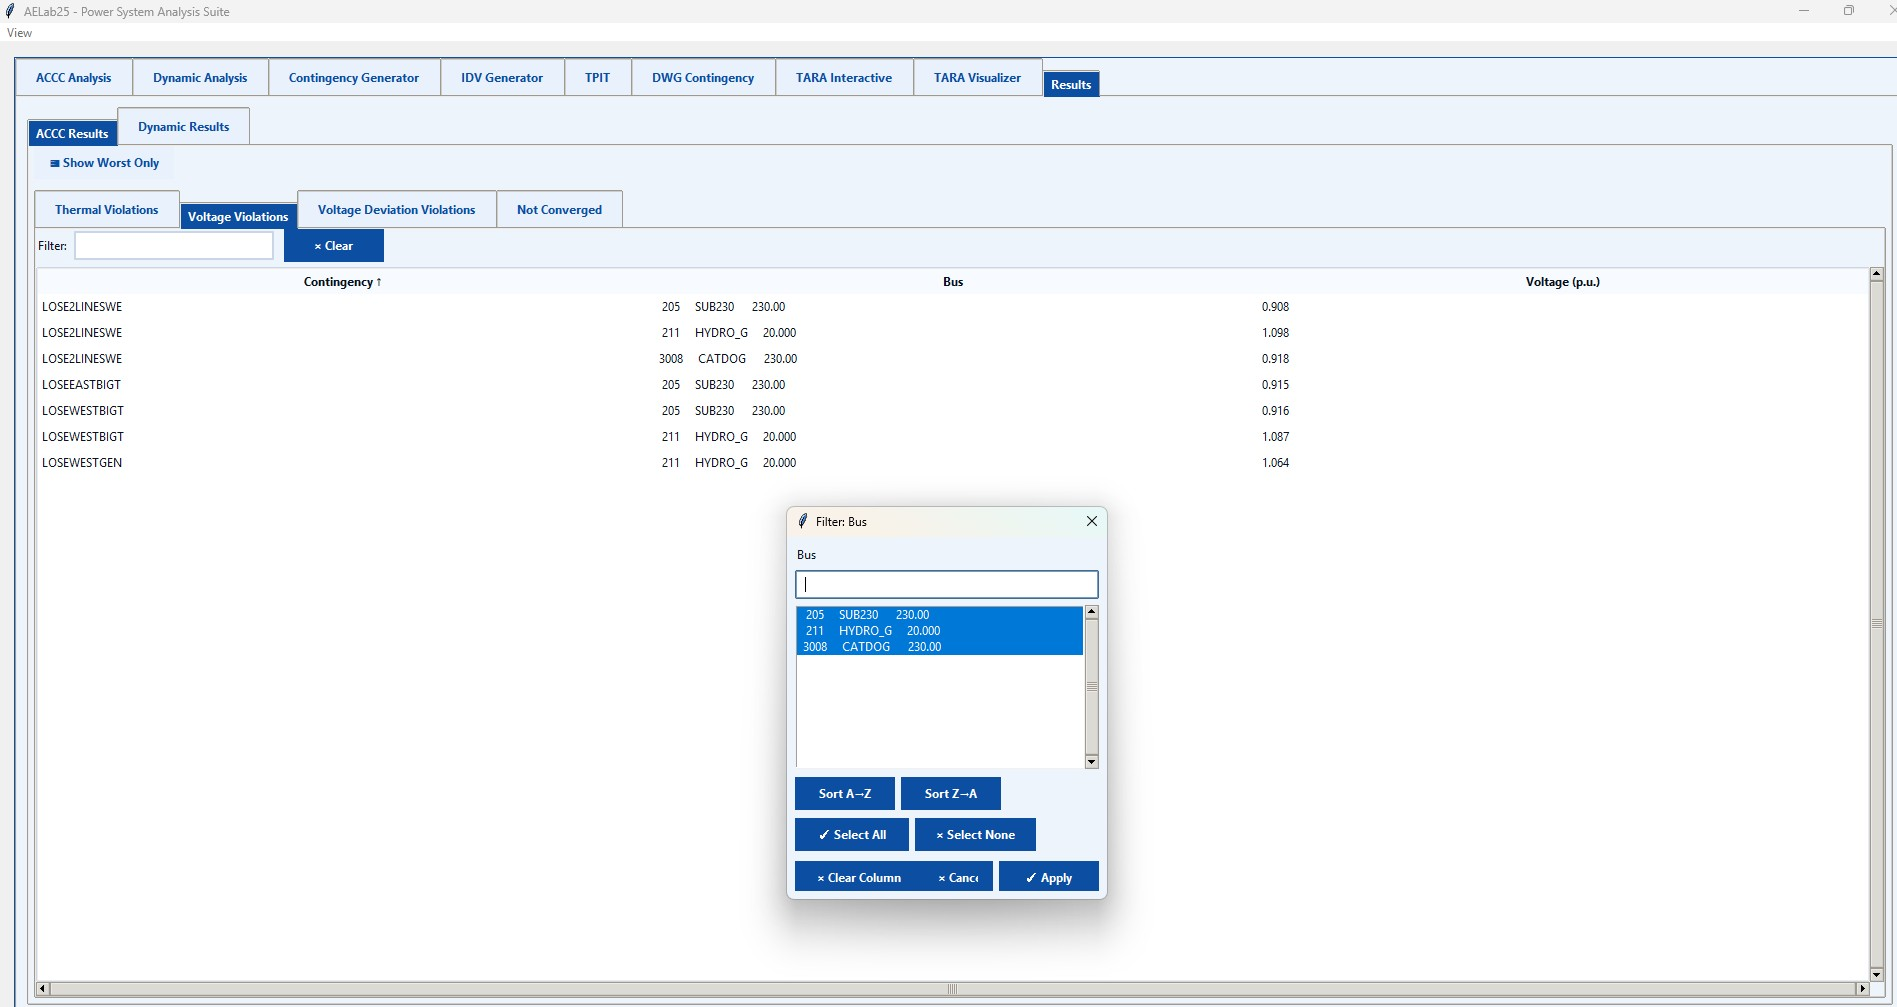
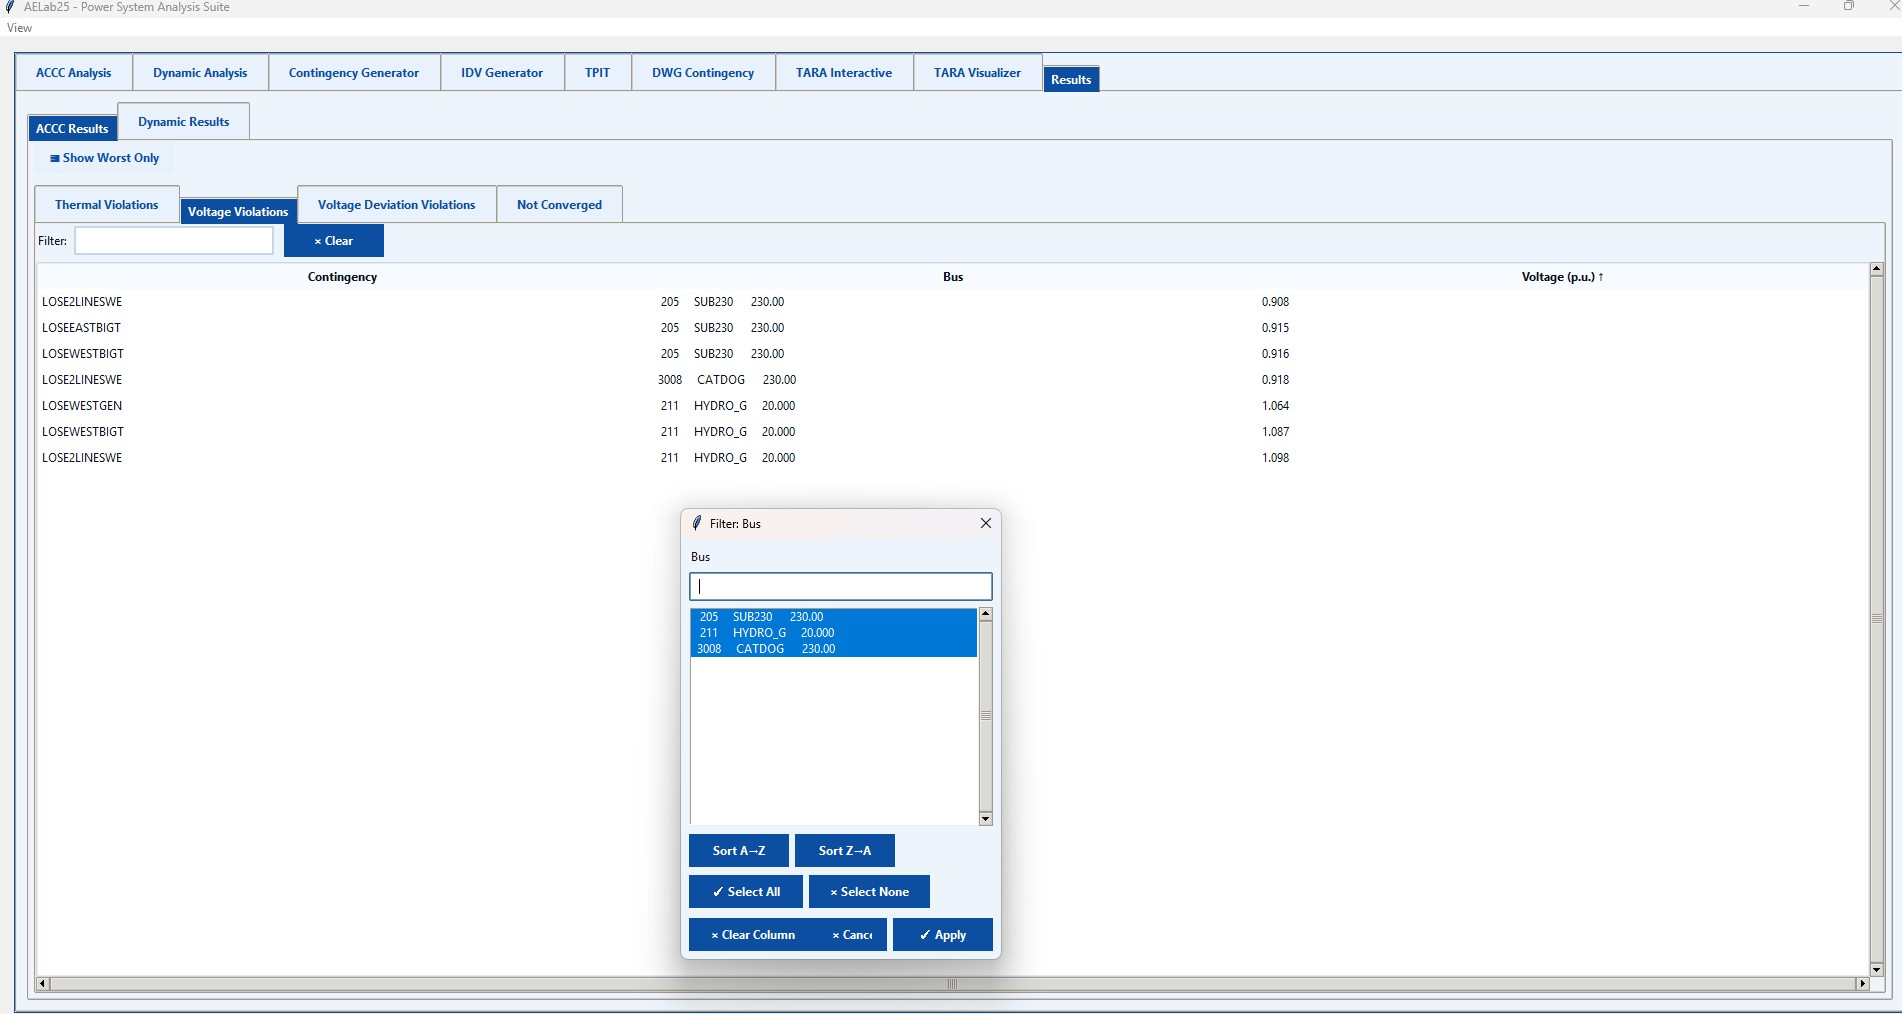
new update

diff --git a/index.html b/index.html
@@ -547,6 +547,7 @@
     <div class="viewport" id="aelabGalleryViewport">
       <div class="slide"><img src="aelabpro_accc.jpg" alt="ACCC Analysis"></div>
       <div class="slide"><img src="ACCCTHERMALVIOLATIONSRESULTS.jpg" alt="ACCC Analysis Thermal Violatitons></div>
+      <div class="slide"><img src="VOLTAGE_VIOLATIONSRESULTS_excell.jpg" alt="ACCC Analysis Voltage Violations Export in Excel></div>
       <div class="slide"><img src="VOLTAGE_VIOLATIONSRESULTS.jpg" alt="ACCC Analysis Voltage Violations"></div>
       <div class="slide"><img src="VOLTAGE_DEVIATION_VIOLATIONS_Results.jpg" alt="ACCC Analysis Voltage Deviations Violations"></div>
       <div class="slide"><img src="Notconverged_Results.jpg" alt="ACCC Analysis NonConveged"></div>
@@ -556,7 +557,7 @@
       <div class="slide"><img src="AELABDYNAMICPLOTS.png" alt="Dynamic Plots"></div>
       <div class="slide"><img src="TARAINTERACTIVE4.jpg" alt="TARA Visualization"></div>
       <div class="slide"><img src="TARAINTERACTIVE2.jpg" alt="TARA Visualization 2"></div>
-      <div class="slide"><img src="TARAINTERACTIVE3.jpgg" alt="TARA Visualization 3"></div>
+      <div class="slide"><img src="TARAINTERACTIVE3.jpg" alt="TARA Visualization 3"></div>
       <div class="slide"><img src="TARAINTERACTIVE.jpg" alt="TARA Visualization 4"></div>
       <div class="slide"><img src="AELABDWGCON2XLS.jpg" alt="DWG CONT2XLS"></div>
       <div class="slide"><img src="AELABDWGCTGBUILDER.jpg" alt="DWG CTG"></div>
